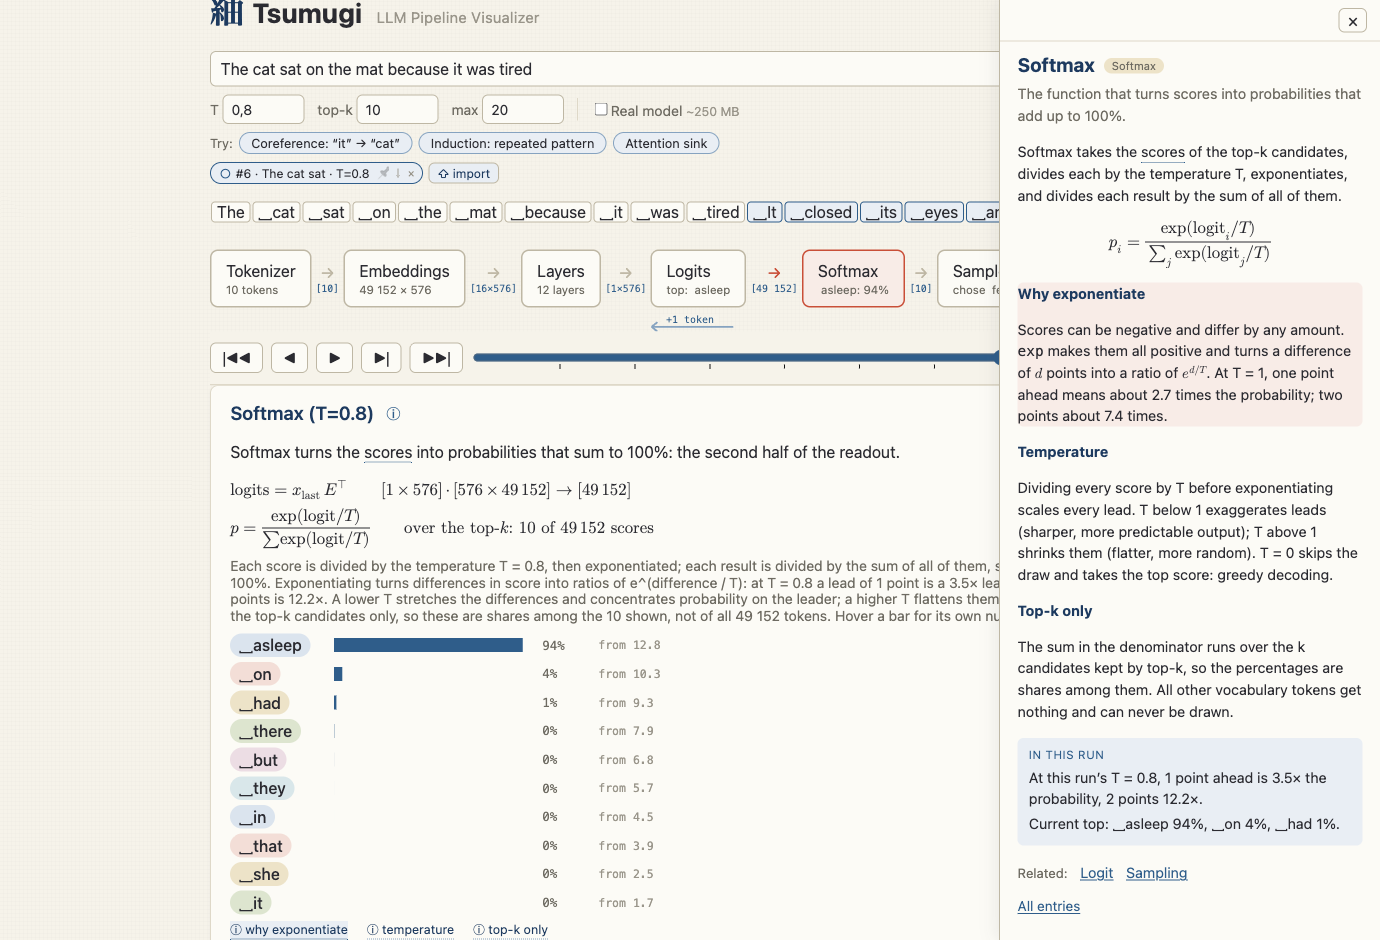
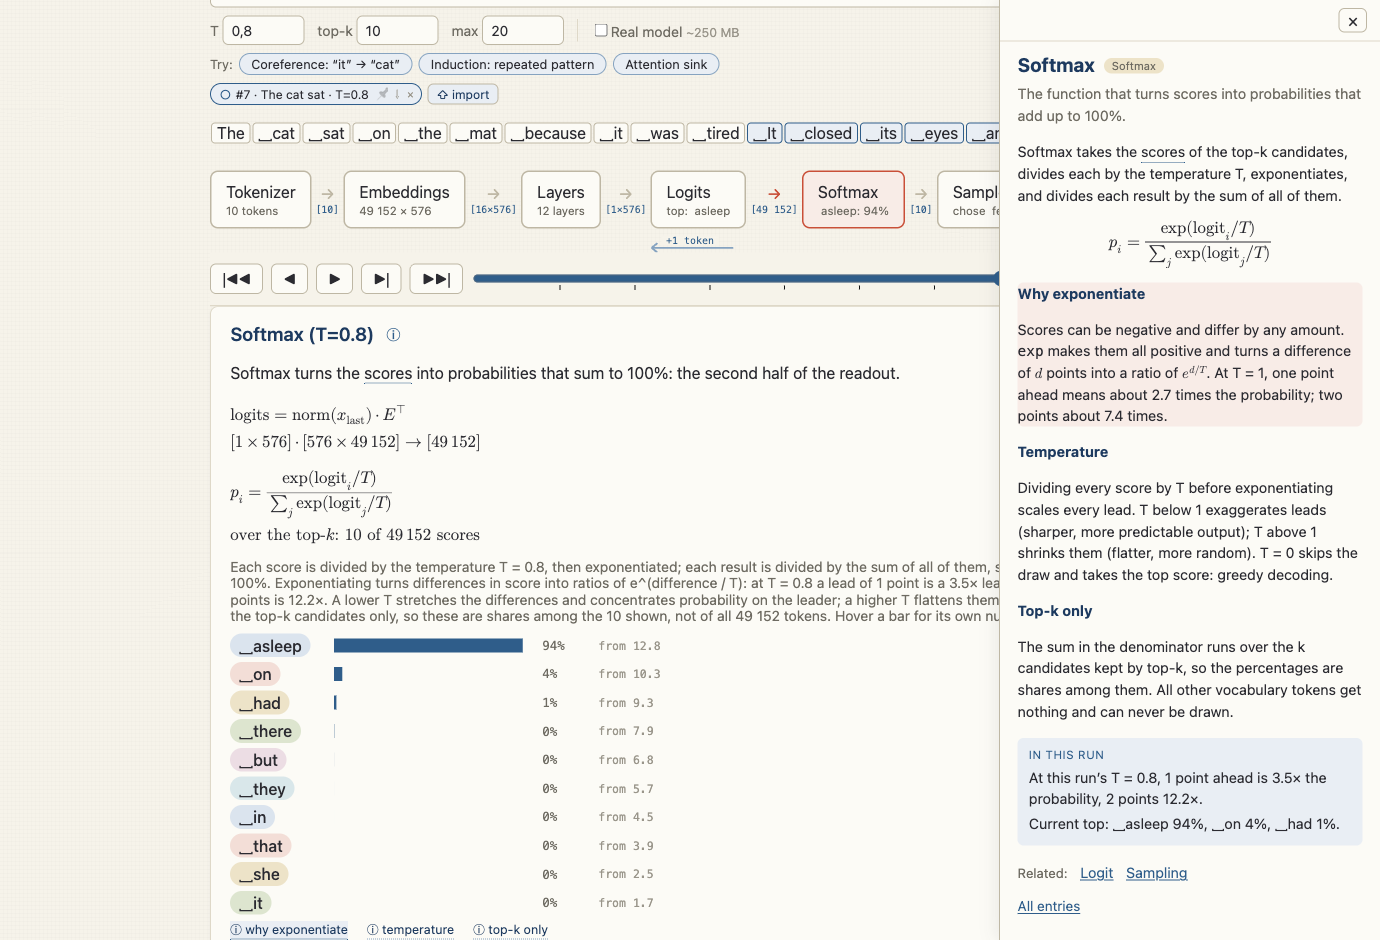
fix(glossary): second review — formulas fit drawer and phone, card notation matches the entries, MLP gate scales
- card formulas: formula and shapes on two rows, scroll inside the card if
  still too wide; softmax fraction gets its indices; readout shows norm()
- attention q/k/v and logit shape line on rows of their own, layer notes
  shortened: no formula is wider than the drawer
- MLP: the gate scales u (SiLU is unbounded), not just lets it through

Changed region(s): [[0.1558, 0.0, 0.7478, 0.6479], [0.187, 0.833, 0.2181, 0.8638], [0.187, 0.6787, 0.2181, 0.7096]]

diff --git a/src/viz/tex.ts b/src/viz/tex.ts
@@ -20,11 +20,12 @@ export function texToMathML(tex: string, inline = false): string {
 // 49152 → '49\,152': thousands grouped with a thin space, as in the cards' text.
 export const texNumber = (n: number) => thousands(n).replace(/ /g, '\\,')
 
-// The cards' formula lines, with the run's own sizes. Rendered inline (left
-// aligned like the rest of the card) but in display style, so fractions keep
-// their full size.
+// The cards' formula lines, with the run's own sizes: the formula on the first
+// row, the shapes (or the top-k note) on the second, so the line never gets
+// wider than a phone. Rendered inline (left aligned like the rest of the card)
+// but in display style, so fractions keep their full size.
 export const logitsTex = (dims: number, vocab: number) =>
-  String.raw`\displaystyle \text{logits} = x_{\text{last}} \cdot E^{\top} \qquad [1 \times ${dims}] \cdot [${dims} \times ${texNumber(vocab)}] \to [${texNumber(vocab)}]`
+  String.raw`\displaystyle \begin{aligned} &\text{logits} = \operatorname{norm}(x_{\text{last}}) \cdot E^{\top} \\ &[1 \times ${dims}] \cdot [${dims} \times ${texNumber(vocab)}] \to [${texNumber(vocab)}] \end{aligned}`
 
 export const softmaxTex = (shown: number, vocab?: number) =>
-  String.raw`\displaystyle p = \frac{\exp(\text{logit}/T)}{\sum \exp(\text{logit}/T)} \qquad \text{over the top-}k\text{: } ${shown} \text{ of } ${vocab ? texNumber(vocab) : '?'} \text{ scores}`
+  String.raw`\displaystyle \begin{aligned} &p_i = \frac{\exp(\text{logit}_i / T)}{\sum_j \exp(\text{logit}_j / T)} \\ &\text{over the top-}k\text{: } ${shown} \text{ of } ${vocab ? texNumber(vocab) : '?'} \text{ scores} \end{aligned}`

diff --git a/src/glossary/registry.test.tsx b/src/glossary/registry.test.tsx
@@ -122,3 +122,21 @@ test('the attention entry explains q, k, v and d and links to softmax', () => {
   expect(container.querySelector('[data-term="softmax"]')).not.toBeNull()
   expect(entry.related).toContain('softmax')
 })
+
+test('wide formulas are broken into rows so they fit the drawer', () => {
+  const tex = (id: string) => {
+    const { container } = render(<>{getEntry(id)!.body()}</>)
+    const t = [...container.querySelectorAll('div.formula annotation')].map((a) => a.textContent ?? '').join('\n')
+    cleanup()
+    return t
+  }
+  // attention: q, k and v on rows of their own
+  expect(tex('attention')).toMatch(/q_i &= W_Q \\cdot n_i \\\\[\s\S]*k_j &= W_K[\s\S]*v_j &= W_V/)
+  // logit: the shape line is its own row, not an indented continuation
+  expect(tex('logit')).not.toContain('\\phantom')
+})
+
+test('the MLP gate scales the values rather than just letting them through', () => {
+  const { container } = render(<>{getEntry('mlp')!.body()}</>)
+  expect(container.textContent).toContain('scaled by the gate')
+})

diff --git a/src/glossary/entries/layer.tsx b/src/glossary/entries/layer.tsx
@@ -12,7 +12,7 @@ export const layer: GlossaryEntry = {
     <>
       <p>SmolLM2-135M stacks 30 layers. They all have the same shape but their own weights. Each one does two
         things in order:</p>
-      <Formula tex={String.raw`\begin{aligned} x &\leftarrow x + \operatorname{Attention}(\operatorname{norm}(x)) && \text{mixes tokens} \\ x &\leftarrow x + \operatorname{MLP}(\operatorname{norm}(x)) && \text{each token alone} \end{aligned}`} />
+      <Formula tex={String.raw`\begin{aligned} x &\leftarrow x + \operatorname{Attention}(\operatorname{norm}(x)) && \text{mixes tokens} \\ x &\leftarrow x + \operatorname{MLP}(\operatorname{norm}(x)) && \text{per token} \end{aligned}`} />
       <p><Term id="attention">Attention</Term> lets each token gather information from earlier tokens. The{' '}
         <Term id="mlp">MLP</Term> then processes each token’s vector separately. Both add their result to the{' '}
         <Term id="residual-stream">residual stream</Term> as an <Term id="edit">edit</Term>.</p>

diff --git a/src/viz/details/SoftmaxDetail.test.tsx b/src/viz/details/SoftmaxDetail.test.tsx
@@ -12,9 +12,9 @@ afterEach(() => { cleanup(); resetGlossaryStore() })
 test('shows both formula lines as the two-step derivation, then the explanation', () => {
   render(<SoftmaxDetail events={makeFixtureTrace()} cursor={8} />)
   expect(screen.getByTestId('detail-softmax')).toHaveTextContent('Softmax (T=0.8)')
-  expect(texOf(screen.getByTestId('logits-formula'))).toContain('x_{\\text{last}} \\cdot E^{\\top}')   // step 1
+  expect(texOf(screen.getByTestId('logits-formula'))).toContain('\\operatorname{norm}(x_{\\text{last}}) \\cdot E^{\\top}')   // step 1
   const sm = texOf(screen.getByTestId('softmax-formula'))                                         // step 2
-  expect(sm).toContain('\\frac{\\exp(\\text{logit}/T)}')
+  expect(sm).toContain('\\frac{\\exp(\\text{logit}_i / T)}')
   expect(sm).toContain('3 \\text{ of } 49\\,152')
   const why = screen.getByTestId('softmax-explainer')
   expect(why).toHaveTextContent(/divided by the temperature/)

diff --git a/src/glossary/entries/logit.tsx b/src/glossary/entries/logit.tsx
@@ -15,7 +15,7 @@ export const logit: GlossaryEntry = {
       <p>After the last layer, the last row of the <Term id="residual-stream">residual stream</Term> is normalised
         and compared with every row of the embedding matrix E. Each comparison is a dot product: 576 products added
         up. The result is one score per vocabulary entry.</p>
-      <Formula tex={String.raw`\begin{aligned} \text{logits} &= \operatorname{norm}(x_{\text{last}}) \cdot E^{\top} \\ &\phantom{=}\ [1 \times 576] \cdot [576 \times 49\,152] \to [49\,152] \end{aligned}`} />
+      <Formula tex={String.raw`\begin{gathered} \text{logits} = \operatorname{norm}(x_{\text{last}}) \cdot E^{\top} \\ [1 \times 576] \cdot [576 \times 49\,152] \to [49\,152] \end{gathered}`} />
       <p>Scores have no fixed range and can be negative. <Term id="softmax">Softmax</Term> turns them into
         probabilities.</p>
       <Section id="tied" title="Tied with Embeddings">

diff --git a/src/glossary/entries/mlp.tsx b/src/glossary/entries/mlp.tsx
@@ -47,7 +47,8 @@ export const mlp: GlossaryEntry = {
             <SiluPlot /></dd>
           <dt><Formula inline tex={String.raw`\odot`} /></dt>
           <dd>Element-wise product: position 1 times position 1, position 2 times position 2, and so on. Where the
-            gate is near zero, the matching value of <Formula inline tex="u" /> is blocked; where it is large, the value passes.</dd>
+            gate is near zero, the matching value of <Formula inline tex="u" /> is blocked; where it is large, the value passes, scaled by the gate. SiLU has no upper limit, so that factor can be
+            larger than 1.</dd>
           <dt><Formula inline tex={String.raw`W_{\text{down}}`} /></dt>
           <dd>A learned matrix of 576 rows × 1536 columns that turns the 1536 values back into a 576-number
             edit.</dd>

diff --git a/src/index.css b/src/index.css
@@ -464,7 +464,7 @@ input[type="number"] { width: 4rem; }
 math { font-family: 'Latin Modern Math', math, 'STIX Two Math', 'Cambria Math', serif; color: var(--ink); }
 .formula { margin: .7rem 0; overflow-x: auto; overflow-y: hidden; font-size: 1.05rem; }
 .formula-inline { margin: 0; overflow: visible; font-size: 1em; }
-.card-formula { display: block; margin: .4rem 0 .6rem; font-size: 1.05rem; }
+.card-formula { display: block; margin: .4rem 0 .6rem; font-size: 1.05rem; max-width: 100%; overflow-x: auto; overflow-y: hidden; }
 .formula-error code { color: var(--shu); }
 .gl-symbols { display: grid; grid-template-columns: max-content 1fr; gap: .45rem .8rem; margin: .4rem 0; }
 .gl-symbols dt { text-align: right; font-size: 1.05rem; }

diff --git a/src/viz/Formula.test.tsx b/src/viz/Formula.test.tsx
@@ -31,3 +31,14 @@ test('texNumber groups thousands with a thin space', () => {
   expect(texNumber(49152)).toBe('49\\,152')
   expect(texNumber(576)).toBe('576')
 })
+
+test('card formulas: shapes on a second row, indices in the softmax fraction, norm in the readout', async () => {
+  const { logitsTex, softmaxTex } = await import('./tex')
+  const l = logitsTex(576, 49152)
+  expect(l).toContain('\\operatorname{norm}(x_{\\text{last}}) \\cdot E^{\\top}')
+  expect(l).toMatch(/E\^\{\\top\} \\\\[\s\S]*\[1 \\times 576\]/)
+  const s = softmaxTex(10, 49152)
+  expect(s).toContain('\\exp(\\text{logit}_i / T)')
+  expect(s).toContain('\\sum_j \\exp(\\text{logit}_j / T)')
+  expect(s).toMatch(/\} \\\\[\s\S]*10 \\text\{ of \} 49\\,152/)
+})

diff --git a/src/glossary/entries/attention.tsx b/src/glossary/entries/attention.tsx
@@ -16,7 +16,9 @@ export const attention: GlossaryEntry = {
         <Term id="residual-stream">residual stream</Term> as an <Term id="edit">edit</Term>.</p>
       <p>For one head and the token at position <Formula inline tex="i" />:</p>
       <Formula tex={String.raw`\begin{aligned}
-        q_i &= W_Q \cdot n_i \quad k_j = W_K \cdot n_j \quad v_j = W_V \cdot n_j \\
+        q_i &= W_Q \cdot n_i \\
+        k_j &= W_K \cdot n_j \\
+        v_j &= W_V \cdot n_j \\
         a_{ij} &= \operatorname{softmax}_{j \le i}\!\left(\frac{q_i \cdot k_j}{\sqrt{d}}\right) \\
         o_i &= \textstyle\sum_{j \le i} a_{ij}\, v_j
       \end{aligned}`} />
